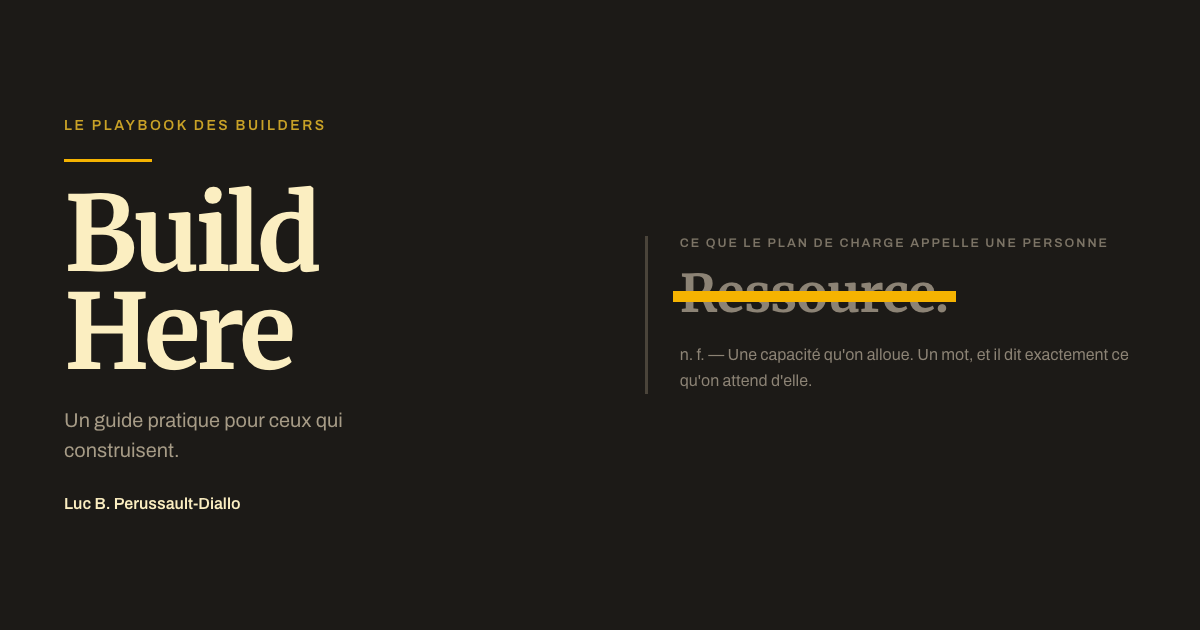
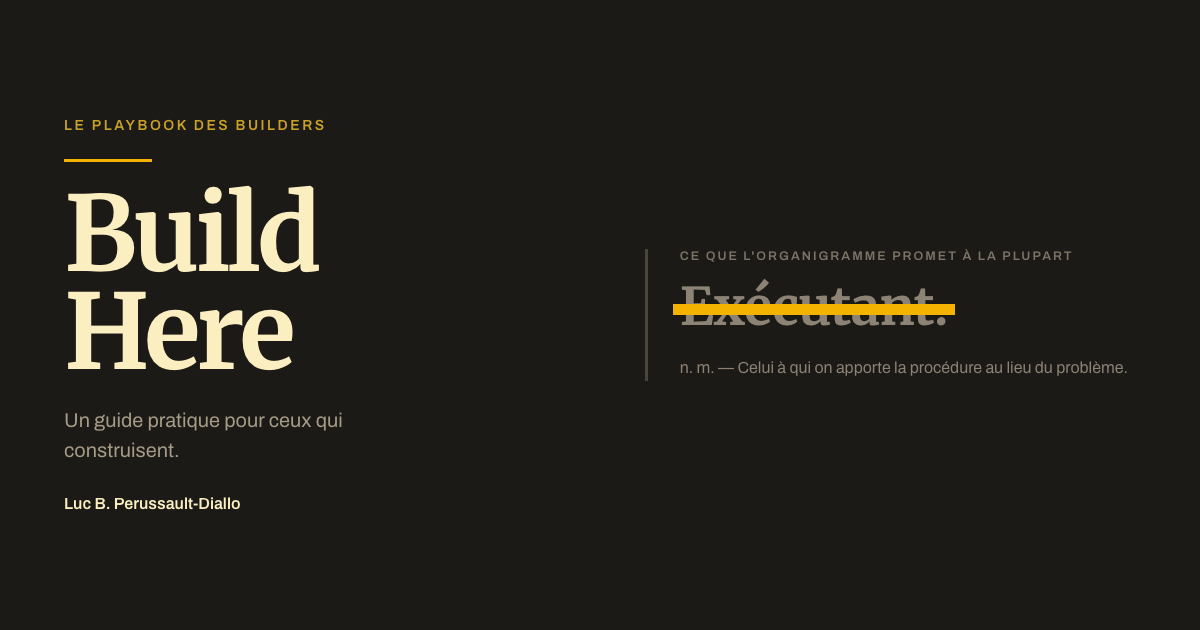
feat(couverture): « Exécutant. » remplace « Ressource. »
Le mot que l'organigramme promet à la plupart, ingénieurs compris. Sa
définition dit la charnière de l'échelle : on lui apporte la procédure au
lieu du problème.

La ligne de source fait 41 caractères, comme celle qu'elle remplace, donc
elle tient à 12,5 px dans la colonne étroite de l'image de partage.

Les deux images sont régénérées.

Changed region(s): [[0.555, 0.3619, 0.925, 0.5127], [0.555, 0.5429, 0.9558, 0.6333]]

diff --git a/_cover/cover.html b/_cover/cover.html
@@ -27,9 +27,9 @@
   <div>
     <div class="kick">Le playbook des builders</div>
     <div class="entry">
-      <div class="src">Ce que le plan de charge appelle une personne</div>
-      <div class="struck">Ressource.<span class="bar"></span></div>
-      <div class="def">n. f. — Une capacité qu'on alloue. Un mot, et il dit exactement ce qu'on attend d'elle.</div>
+      <div class="src">Ce que l'organigramme promet à la plupart</div>
+      <div class="struck">Exécutant.<span class="bar"></span></div>
+      <div class="def">n. m. — Celui à qui on apporte la procédure au lieu du problème.</div>
     </div>
     <div class="rule"></div>
     <div class="title">Build<br>Here</div>

diff --git a/_cover/og.html b/_cover/og.html
@@ -31,9 +31,9 @@
     <div class="author">Luc B. Perussault-Diallo</div>
   </div>
   <div class="right">
-    <div class="src">Ce que le plan de charge appelle une personne</div>
-    <div class="struck">Ressource.<span class="bar"></span></div>
-    <div class="def">n. f. — Une capacité qu'on alloue. Un mot, et il dit exactement ce qu'on attend d'elle.</div>
+    <div class="src">Ce que l'organigramme promet à la plupart</div>
+    <div class="struck">Exécutant.<span class="bar"></span></div>
+    <div class="def">n. m. — Celui à qui on apporte la procédure au lieu du problème.</div>
   </div>
 </div>
 </body></html>
